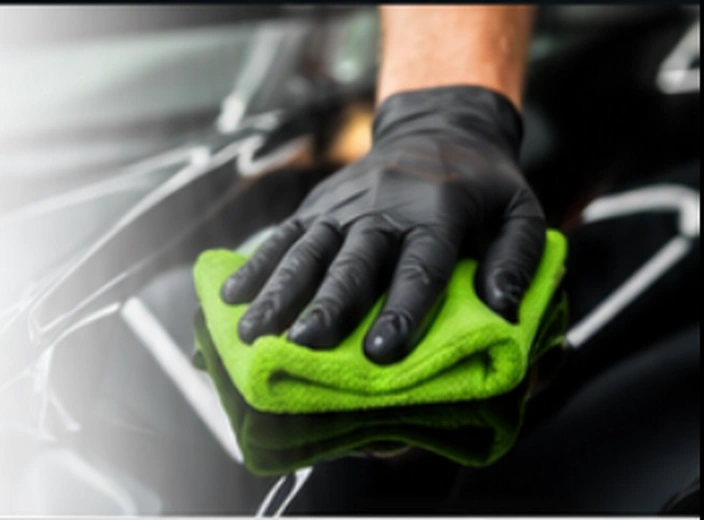
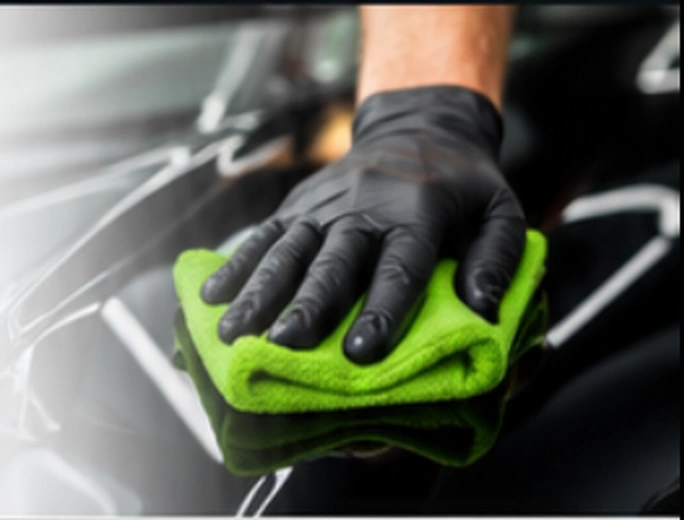
atualização de conteúdo

diff --git a/css/style.css b/css/style.css
@@ -481,31 +481,10 @@ svg {
     box-shadow: 0 0 8px var(--color-brand-glow);
   }
 
-  .mobile-drawer-footer {
-    padding-top: 1rem;
-    border-top: 1px solid var(--color-border-subtle);
-  }
-
+  /* Pulsante WhatsApp rimosso dal menu drawer mobile/tablet per indicazione utente */
+  .mobile-drawer-footer,
   .mobile-btn-whatsapp {
-    width: 100%;
-    padding: 14px 20px;
-    font-size: 0.95rem;
-    font-weight: 700;
-    border-radius: 14px;
-    display: flex;
-    align-items: center;
-    justify-content: center;
-    gap: 10px;
-    box-shadow: 0 4px 16px rgba(141, 234, 32, 0.3);
-  }
-
-  .mobile-btn-whatsapp .btn-arrow {
-    font-size: 1.1rem;
-    transition: transform var(--transition-fast);
-  }
-
-  .mobile-btn-whatsapp:hover .btn-arrow {
-    transform: translateX(3px);
+    display: none !important;
   }
 }
 
@@ -1931,7 +1910,9 @@ svg {
 .perche-sceglierci-section {
   position: relative;
   background-color: #f4f6f7;
-  background-image: url('../assets/images/perche-sceglierci-bg.webp');
+  background-image: 
+    linear-gradient(to right, #f4f6f7 0%, #f4f6f7 50%, rgba(244, 246, 247, 0.96) 58%, rgba(244, 246, 247, 0.25) 70%, transparent 84%),
+    url('../assets/images/perche-sceglierci-bg.webp');
   background-repeat: no-repeat;
   background-position: right center;
   background-size: cover;
@@ -2083,11 +2064,21 @@ svg {
   display: none;
 }
 
-/* Notebook & Tablet Grande (861px - 1180px) */
-@media (max-width: 1180px) {
+/* Notebook Grande e Schermi Medi (1081px - 1280px) */
+@media (max-width: 1280px) {
+  .perche-sceglierci-section {
+    background-image: 
+      linear-gradient(to right, #f4f6f7 0%, #f4f6f7 52%, rgba(244, 246, 247, 0.98) 60%, rgba(244, 246, 247, 0.35) 72%, transparent 86%),
+      url('../assets/images/perche-sceglierci-bg.webp');
+    background-position: right center;
+    background-size: cover;
+    padding: 5rem 0 5.5rem 0;
+  }
+
   .perche-header,
   .perche-features {
-    width: 60%;
+    width: 58%;
+    max-width: 720px;
   }
 
   .perche-feature-item {
@@ -2095,7 +2086,7 @@ svg {
   }
 
   .feature-main {
-    font-size: 0.88rem;
+    font-size: 0.90rem;
   }
 
   .feature-sub {
@@ -2103,11 +2094,47 @@ svg {
   }
 }
 
+/* Notebook Compatto (861px - 1080px) */
+@media (max-width: 1080px) {
+  .perche-sceglierci-section {
+    background-image: 
+      linear-gradient(to right, #f4f6f7 0%, #f4f6f7 54%, rgba(244, 246, 247, 0.98) 62%, rgba(244, 246, 247, 0.4) 74%, transparent 88%),
+      url('../assets/images/perche-sceglierci-bg.webp');
+    background-position: right center;
+    background-size: cover;
+    padding: 4.5rem 0 5rem 0;
+  }
+
+  .perche-header,
+  .perche-features {
+    width: 58%;
+    max-width: 680px;
+  }
+
+  .perche-feature-item {
+    padding: 0 0.65rem;
+    gap: 0.65rem;
+  }
+
+  .feature-svg {
+    width: 28px;
+    height: 28px;
+  }
+
+  .feature-main {
+    font-size: 0.86rem;
+  }
+
+  .feature-sub {
+    font-size: 0.78rem;
+  }
+}
+
 /* Mobile & Tablet (<= 860px): Immagine posizionata sotto al titolo + cards in 2 colonne */
 @media (max-width: 860px) {
   .perche-sceglierci-section {
     padding: 3.5rem 0 4rem 0;
-    background-image: none; /* Rimuove lo sfondo orizzontale su mobile */
+    background-image: none !important; /* Rimuove lo sfondo orizzontale su mobile e tablet */
     background-color: #f4f6f7;
   }
 
@@ -3432,7 +3459,14 @@ svg {
    Responsività Footer per Notebook, Tablet e Mobile
    ========================================================================== */
 
-/* 1. Notebook Compatto e Tablet Orizzontale (861px - 1080px) */
+/* 1. Ocultar Botão WhatsApp do Footer para Notebook, Tablet e Mobile (<= 1366px) */
+@media (max-width: 1366px) {
+  .footer-whatsapp-btn {
+    display: none !important;
+  }
+}
+
+/* 2. Notebook Compatto e Tablet Orizzontale (861px - 1080px) */
 @media (max-width: 1080px) {
   .footer-nav-list {
     gap: 1.5rem;
@@ -3464,8 +3498,8 @@ svg {
   }
 }
 
-/* 3. Mobile e Smartphone (<= 600px) */
-@media (max-width: 600px) {
+/* 3. Mobile e Smartphone (<= 680px) */
+@media (max-width: 680px) {
   .footer-top {
     flex-direction: column;
     align-items: center;
@@ -3493,11 +3527,24 @@ svg {
     font-size: 0.95rem;
   }
 
+  /* Centralizzazione perfetta icone social su cellulare */
   .footer-actions {
+    display: flex;
     flex-direction: row;
     justify-content: center;
-    gap: 1.15rem;
-    margin-top: 0.25rem;
+    align-items: center;
+    align-self: center;
+    margin: 0.5rem auto 0 auto !important;
+    width: 100%;
+    max-width: 100%;
+  }
+
+  .footer-social-group {
+    display: flex;
+    justify-content: center;
+    align-items: center;
+    margin: 0 auto !important;
+    gap: 0.85rem;
   }
 
   .footer-bottom {

diff --git a/index.html b/index.html
@@ -22,7 +22,7 @@
   <link href="https://fonts.googleapis.com/css2?family=Plus+Jakarta+Sans:ital,wght@0,400;0,500;0,600;0,700;0,800;1,800;1,900&display=swap" rel="stylesheet">
 
   <!-- Foglio di Stile Principale (con cache buster per aggiornamento immediato) -->
-  <link rel="stylesheet" href="css/style.css?v=10.0">
+  <link rel="stylesheet" href="css/style.css?v=10.3">
 </head>
 <body>
 
@@ -124,22 +124,6 @@
             <li><a href="#contatti" class="mobile-nav-link">Contatti</a></li>
           </ul>
         </nav>
-
-        <div class="mobile-drawer-footer">
-          <a 
-            href="https://wa.me/390000000000" 
-            class="btn-whatsapp mobile-btn-whatsapp" 
-            target="_blank" 
-            rel="noopener noreferrer"
-            aria-label="Scrivici su WhatsApp (apre in una nuova scheda)"
-          >
-            <svg class="icon-whatsapp" viewBox="0 0 24 24" aria-hidden="true">
-              <path d="M12.04 2C6.58 2 2.13 6.45 2.13 11.91C2.13 13.66 2.59 15.36 3.45 16.86L2.05 22L7.3 20.62C8.75 21.41 10.38 21.83 12.04 21.83C17.5 21.83 21.95 17.38 21.95 11.92C21.95 9.27 20.92 6.78 19.05 4.91C17.18 3.03 14.69 2 12.04 2ZM12.05 3.67C14.25 3.67 16.31 4.53 17.87 6.09C19.42 7.65 20.28 9.72 20.28 11.92C20.28 16.46 16.59 20.15 12.04 20.15C10.56 20.15 9.11 19.76 7.85 19.01L7.55 18.83L4.44 19.65L5.27 16.61L5.07 16.3C4.24 14.98 3.81 13.47 3.81 11.91C3.81 7.37 7.5 3.67 12.05 3.67ZM8.53 7.33C8.37 7.33 8.1 7.39 7.87 7.64C7.65 7.89 7.02 8.48 7.02 9.68C7.02 10.88 7.9 12.03 8.02 12.19C8.14 12.35 9.73 14.81 12.18 15.86C12.76 16.11 13.22 16.27 13.57 16.38C14.16 16.57 14.7 16.54 15.12 16.48C15.59 16.41 16.57 15.89 16.77 15.31C16.98 14.74 16.98 14.25 16.92 14.14C16.86 14.03 16.7 13.97 16.45 13.85C16.2 13.72 14.98 13.12 14.75 13.04C14.53 12.95 14.36 12.91 14.2 13.16C14.03 13.4 13.57 13.97 13.43 14.14C13.29 14.3 13.15 14.32 12.9 14.2C12.65 14.07 11.61 13.73 10.37 12.63C9.41 11.77 8.76 10.71 8.57 10.39C8.38 10.06 8.55 9.89 8.68 9.76C8.79 9.64 8.93 9.46 9.06 9.31C9.18 9.16 9.22 9.06 9.3 8.9C9.39 8.73 9.34 8.59 9.28 8.47C9.22 8.35 8.72 7.13 8.53 6.64C8.33 6.17 8.14 6.23 8 6.22C7.86 6.22 7.7 6.21 7.53 6.21L8.53 7.33Z"/>
-            </svg>
-            <span>Scrivici su WhatsApp</span>
-            <span class="btn-arrow" aria-hidden="true">&rarr;</span>
-          </a>
-        </div>
       </div>
     </div>
   </header>
